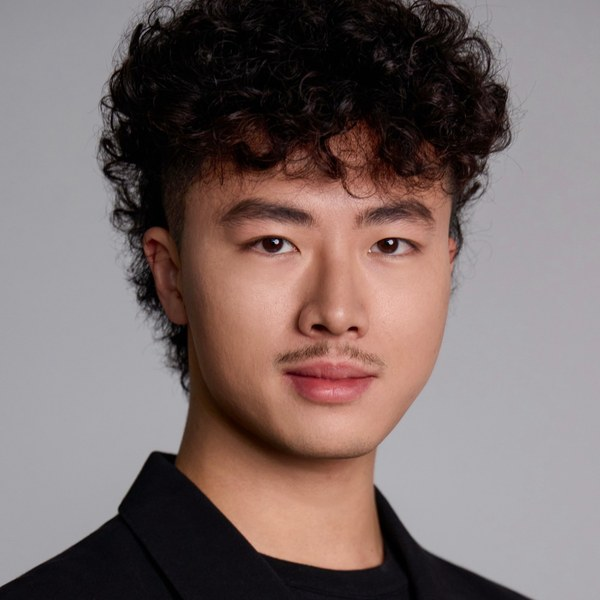
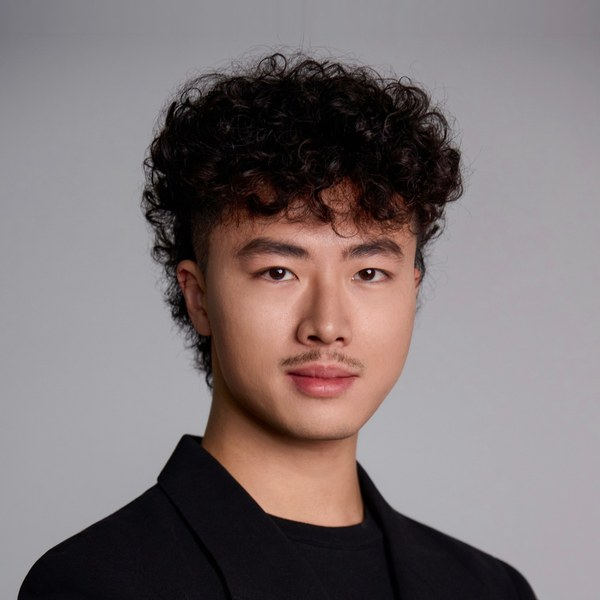
Two-line photo captions, Times New Roman font, profile photo re-crop, drop duplicate Education heading
Claude-Session: https://claude.ai/code/session_01VVFc3mowjFm8884oh9uhy4

diff --git a/_sass/_themes.scss b/_sass/_themes.scss
@@ -15,8 +15,8 @@ $paragraph-indent           : false; // true, false (default)
 $indent-var                 : 1.3em;
 
 /* System typefaces */
-$serif                      : Georgia, Times, serif;
-$sans-serif                 : -apple-system, ".SFNSText-Regular", "San Francisco", "Roboto", "Segoe UI", "Helvetica Neue", "Lucida Grande", Arial, sans-serif;
+$serif                      : "Times New Roman", Times, "Liberation Serif", "Nimbus Roman", serif;
+$sans-serif                 : $serif; // site-wide Times New Roman
 $monospace                  : Monaco, Consolas, "Lucida Console", monospace;
 
 /* Sans serif typefaces */

diff --git a/_sass/layout/_media.scss b/_sass/layout/_media.scss
@@ -45,8 +45,19 @@
       font-family: inherit;
       margin: 0.4em 0 0;
       padding: 0;
-      font-size: 0.8em;
-      opacity: 0.8;
+      line-height: 1.3;
+      font-size: 1rem;
     }
+  }
+
+  &__title {
+    display: block;
+    font-size: 1em;
+  }
+
+  &__location {
+    display: block;
+    font-size: 0.8em;
+    opacity: 0.7;
   }
 }

diff --git a/_pages/photography.md b/_pages/photography.md
@@ -17,9 +17,12 @@ A glimpse of my life and travels. Click a photo to see it full size.
 {% for photo in site.data.photos %}
   <figure class="photo-grid__item">
     <a href="{{ base_path }}/images/photos/{{ photo.file }}" target="_blank" rel="noopener">
-      <img src="{{ base_path }}/images/photos/{{ photo.file }}" alt="{{ photo.caption | default: 'Photo' }}">
+      <img src="{{ base_path }}/images/photos/{{ photo.file }}" alt="{{ photo.title | default: photo.caption | default: 'Photo' }}">
     </a>
-    {% if photo.caption %}<figcaption>{{ photo.caption }}{% if photo.date %} · {{ photo.date }}{% endif %}</figcaption>{% endif %}
+    {% if photo.title or photo.location or photo.caption %}<figcaption>
+      {% if photo.title or photo.caption %}<span class="photo-grid__title">{{ photo.title | default: photo.caption }}</span>{% endif %}
+      {% if photo.location %}<span class="photo-grid__location">{{ photo.location }}</span>{% endif %}
+    </figcaption>{% endif %}
   </figure>
 {% endfor %}
 </div>

diff --git a/_pages/education.md b/_pages/education.md
@@ -10,9 +10,6 @@ redirect_from:
 
 {% include base_path %}
 
-Education
-======
-
 **Ph.D. in Mechanical Engineering** — New York University, *September 2024 – present*
 * Dual affiliation: NYU Tandon School of Engineering (Brooklyn) & NYU Abu Dhabi (UAE)
 * Advisor: Prof. Nikolaos Karathanasopoulos
